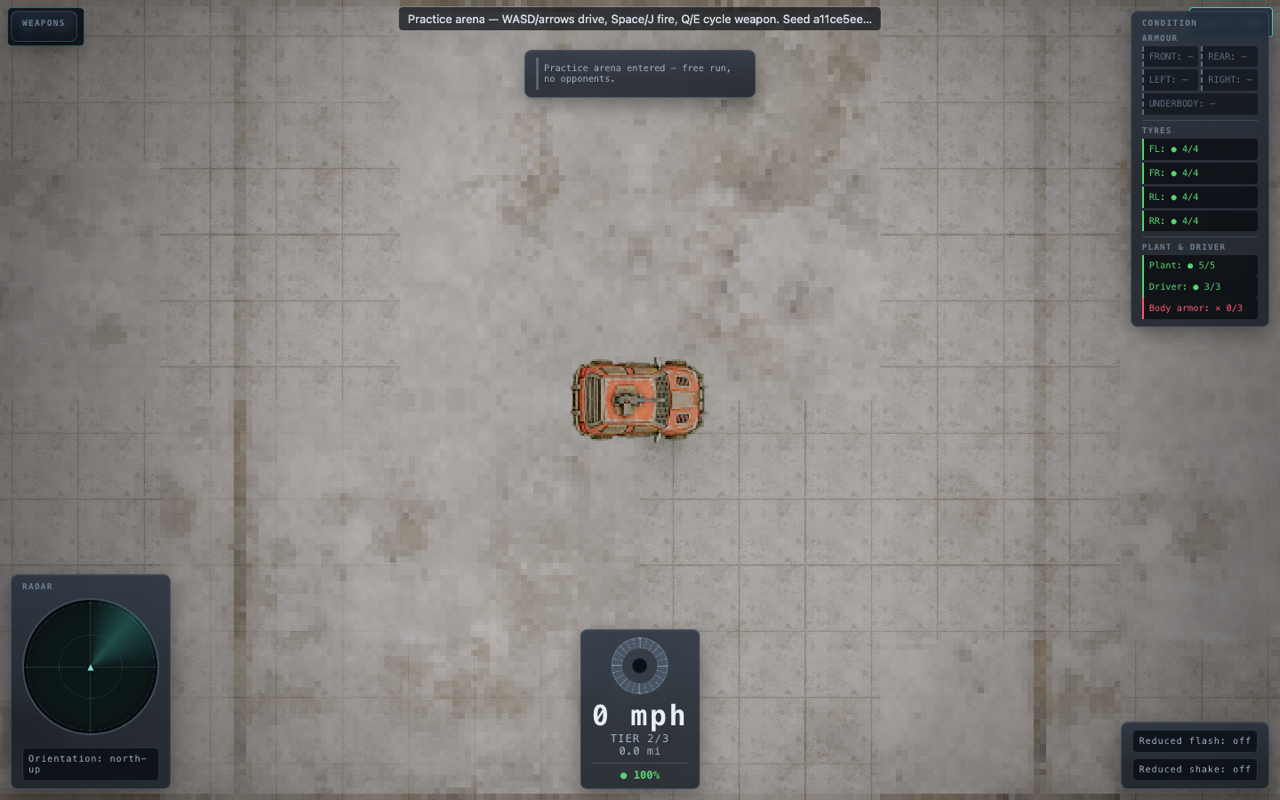
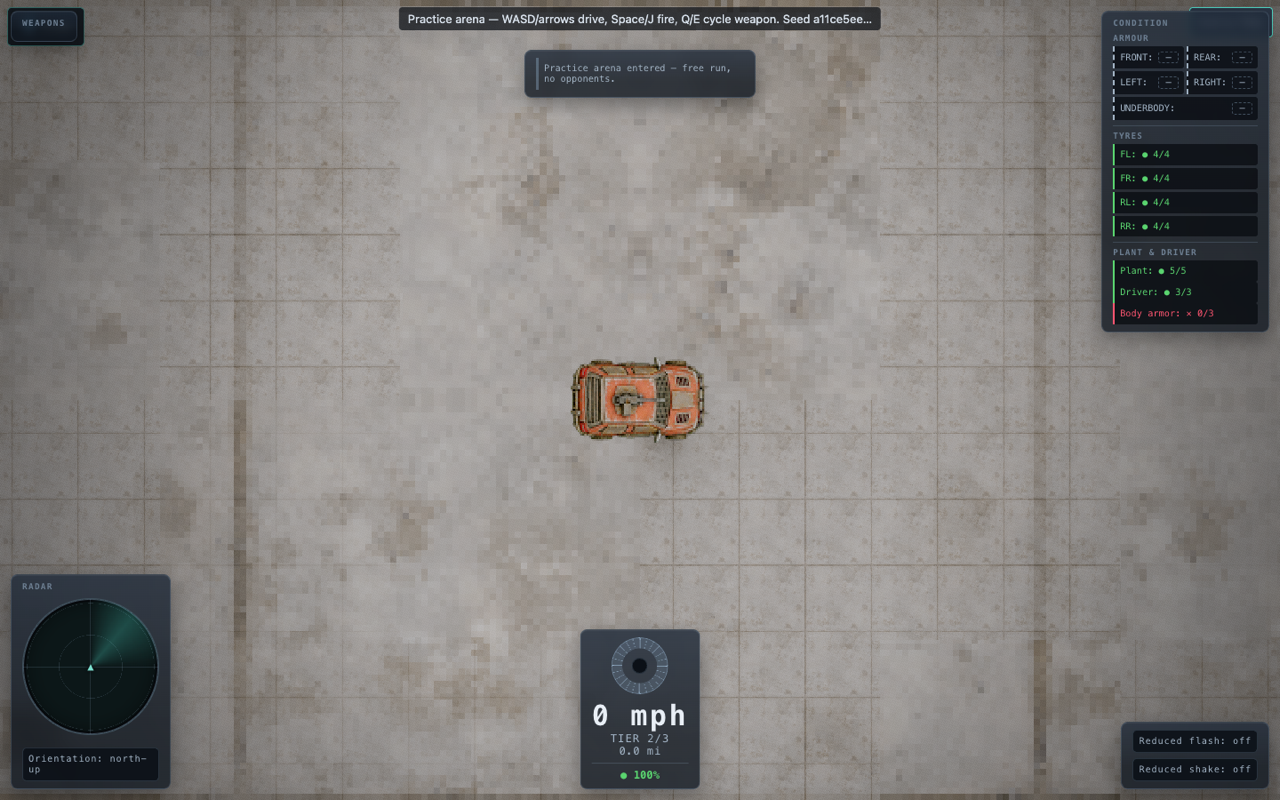
fix(arena): the truncation is what made a real feature look like a log line 🎲
Iteration 22. Reviewer: openai/o4-mini.

- "The instruction bars use small, light grey text ... long lines are truncated
  with an ellipsis, making controls and status messages unreadable."

  True, and the cause is narrower than the review knew. The arena banner was ONE
  element carrying a mode label, three control hints and the session seed inside
  a `max-width`, so it rendered as:

    Practice arena — WASD/arrows drive, Space/J fire, Q/E cycle weapon. Seed a11ce5ee…

  THE TRUNCATION IS WHAT MADE THE SEED LOOK LIKE DEBUG NOISE. A hash cut off
  mid-string reads as a log line; a complete, labelled one reads as a deliberate
  feature. That is the same "looks unfinished" signal iteration 19 caught on the
  title screen, arrived at by a completely different route — and the two wanted
  OPPOSITE fixes. There, the header described a session that did not exist and
  was deleted. Here the seed describes a session that does, and it is what makes
  a practice run reproducible, so it is kept and given its own element that
  cannot ellipsize.

  The controls become a fading hint on the same keyframes as the road's driving
  hint, and the status line now says only what stays true: "Practice arena".

  Positioned by looking at the real frame twice, as always: top-left collided
  with the WEAPONS button, and moving it right hid it behind the CONDITION
  panel. It tucks under WEAPONS, which is the one control it sits nearest to.
[…]

Changed region(s): [[0.8438, 0.0, 1.0, 0.4375]]

diff --git a/src/app.ts b/src/app.ts
@@ -2392,6 +2392,38 @@ function showArena(
   const status = el('div');
   status.style.cssText =
     'position:absolute;top:8px;left:50%;transform:translateX(-50%);max-width:min(700px, calc(100vw - 260px));color:#d7e0ea;font-family:system-ui,sans-serif;font-size:13px;background:rgba(10,14,20,0.7);padding:4px 10px;border-radius:4px;text-align:center;';
+  /**
+   * Controls and seed, split OUT of the status line.
+   *
+   * The banner was one element carrying a mode label, three control hints and
+   * the session seed, inside a `max-width` that truncated it: it rendered as
+   * "Practice arena — WASD/arrows drive, Space/J fire, Q/E cycle weapon. Seed
+   * a11ce5ee…." A review called the result "small, light grey text ... long
+   * lines are truncated with an ellipsis, making controls and status messages
+   * unreadable", and iteration 19 had already caught this same line's siblings
+   * leaking dev data into player-facing UI.
+   *
+   * The truncation is what made the seed read as debug noise: a hash cut off
+   * mid-string looks like a log line, where a complete, labelled one looks like
+   * a deliberate feature. The seed is genuinely useful — it is what makes a
+   * practice run reproducible — so it is kept, not removed, and given its own
+   * element that cannot ellipsize. It goes BELOW the WEAPONS button rather than
+   * beside it, and on the left rather than the right: a screenshot caught it
+   * under the WEAPONS button at top-left, and a second caught it hidden behind
+   * the CONDITION panel when I moved it right. The arena's corners are all
+   * spoken for, so the stamp tucks under the one control it is nearest to.
+   *
+   * The controls are a teaching aid, so they fade like the road's driving hint
+   * (see the identical `sm-road-hint-fade` keyframes) instead of sitting in the
+   * objective line for the whole session. `status` now says only what stays true.
+   */
+  const arenaControls = el('div');
+  arenaControls.style.cssText =
+    'position:absolute;top:34px;left:50%;transform:translateX(-50%);color:#9fb0c2;font-family:system-ui,sans-serif;font-size:12px;background:rgba(10,14,20,0.62);padding:3px 9px;border-radius:4px;text-align:center;white-space:nowrap;pointer-events:none;animation:sm-road-hint-fade 7s ease-out forwards;';
+  arenaControls.textContent = t(isCoarsePointer() ? 'ui.arena.arenaControlsTouch' : 'ui.arena.arenaControls');
+  const seedTag = el('div');
+  seedTag.style.cssText =
+    'position:absolute;top:52px;left:8px;color:#7f8fa2;font-family:ui-monospace,monospace;font-size:11px;background:rgba(10,14,20,0.62);padding:3px 7px;border-radius:4px;white-space:nowrap;pointer-events:none;';
   const exitBtn = el('button', undefined, t('ui.arena.exitToTitle'));
   exitBtn.style.cssText =
     'position:absolute;top:8px;right:8px;pointer-events:auto;padding:6px 10px;background:#2a3444;color:#d7e0ea;border:1px solid #4fd6c4;border-radius:4px;cursor:pointer;';
@@ -2401,6 +2433,8 @@ function showArena(
   container.appendChild(canvas);
   container.appendChild(hudHost);
   container.appendChild(status);
+  container.appendChild(arenaControls);
+  container.appendChild(seedTag);
   container.appendChild(retryBtn);
   container.appendChild(exitBtn);
   clearAndAppend(root, container);
@@ -2520,7 +2554,8 @@ function showArena(
     // The seed's job is REPRODUCIBILITY: it goes in the console log and in the
     // crash banner, both of which carry it in full for a bug report. On screen
     // it only needs to be recognisable and short.
-    status.textContent = t('ui.arena.practiceHint', { seed: `${session.sessionSeed.slice(0, 8)}…` });
+    status.textContent = t('ui.arena.practiceHint');
+    seedTag.textContent = t('ui.arena.seedLabel', { seed: session.sessionSeed.slice(0, 8) });
 
     atlasIndex = loadAtlasIndex(atlasManifestRaw);
 

diff --git a/.opencode/ralph-loop.local.md b/.opencode/ralph-loop.local.md
@@ -1,6 +1,6 @@
 ---
 active: true
-iteration: 21
+iteration: 22
 maxIterations: 100
 sessionId: ses_f14a7ff23ffeCvOeqyAPPjegV6
 ---
@@ -9,7 +9,7 @@ lets do a infiniate improving loop each time ask a random state of the art visio
 
 ## Log
 
-Reviewers asked (21 of 82 vision models):
+Reviewers asked (22 of 82 vision models):
 1. google/gemini-3.8-flash      -> title wordmark, constructor (3 bugs incl. one I missed), city motorway-through-wall
 2. openai/gpt-5.4-mini         -> radar instrument, condition dashboard, player/opponent contrast, title hierarchy
 3. qwen/qwen3.5-122b-a10b      -> road lane markings (carried x2), preview/menu contrast, radar rings (claim WRONG - checked)
@@ -319,6 +319,36 @@ TOOLING - the review harness got audited by its own failure this round:
        noticing the pixel count was IDENTICAL to the unrelated armour-chip change.
      FALSE: radar (13th report on the same element); the tagline contrast, which
        already carries a two-layer shadow from iteration 15.
+
+22. openai/o4-mini -> 1 REAL (the truncation that made a real feature look like a
+     log line), 1 measured-and-already-satisfied, 3 FALSE:
+     - "The instruction bars use small, light grey text ... long lines are
+       truncated with an ellipsis, making controls and status messages
+       unreadable." TRUE, and the cause is more specific than the review knew.
+       The arena banner was ONE element carrying a mode label, three control
+       hints and the session seed inside a max-width, so it rendered as
+       "Practice arena - WASD/arrows drive, Space/J fire, Q/E cycle weapon. Seed
+       a11ce5ee...". THE TRUNCATION IS WHAT MADE THE SEED LOOK LIKE DEBUG
+       NOISE: a hash cut off mid-string reads as a log line, a complete labelled
+       one reads as a feature. The seed is genuinely useful - it is what makes a
+       practice run reproducible - so it is KEPT and given its own element that
+       cannot ellipsize, rather than deleted the way iteration 19 deleted the
+       title's phantom session header. Controls became a fading hint on the same
+       keyframes as the road's, and the status line now says only what stays true.
+       Positioned by screenshot twice: top-left collided with WEAPONS, top-right
+       hid it behind CONDITION, so it tucks under WEAPONS.
+     - "The progress bar fill is nearly the same shade as the track, making
+       progress almost imperceptible." MEASURED FALSE. The fill is a teal-to-blue
+       gradient (#4fd6c4 -> #63a8ff) on a near-black track, about 9:1, and the bar
+       is already 8px - the review asked for "at least 8px". What it is seeing is
+       scaleX(0) at the start of a 150-mile route: an empty bar is the honest
+       report of 0 miles driven, and the miles are in the objective line one row
+       above. A duplicate percentage readout would be the same clutter the
+       drive-hint fix just removed.
+     FALSE: radar (14th report on the same element); the selected menu row is
+       ambiguous (it has an accent wash plus a 3px edge, and iteration 20
+       strengthened the panel around it); the constructor is unstructured (it has
+       a section edge, a distinct CONFIRM button, and a loadout group heading).
 
 DEFERRED (real, documented, not bugs):
 - Ground blockiness: NEAREST sampler is REQUIRED (no atlas gutters, linear would
